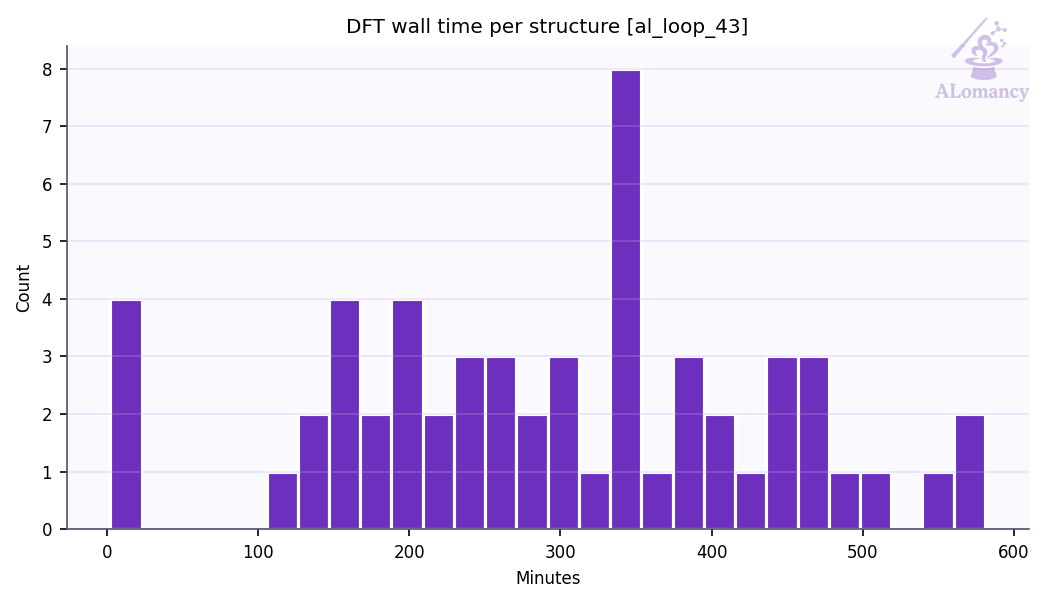
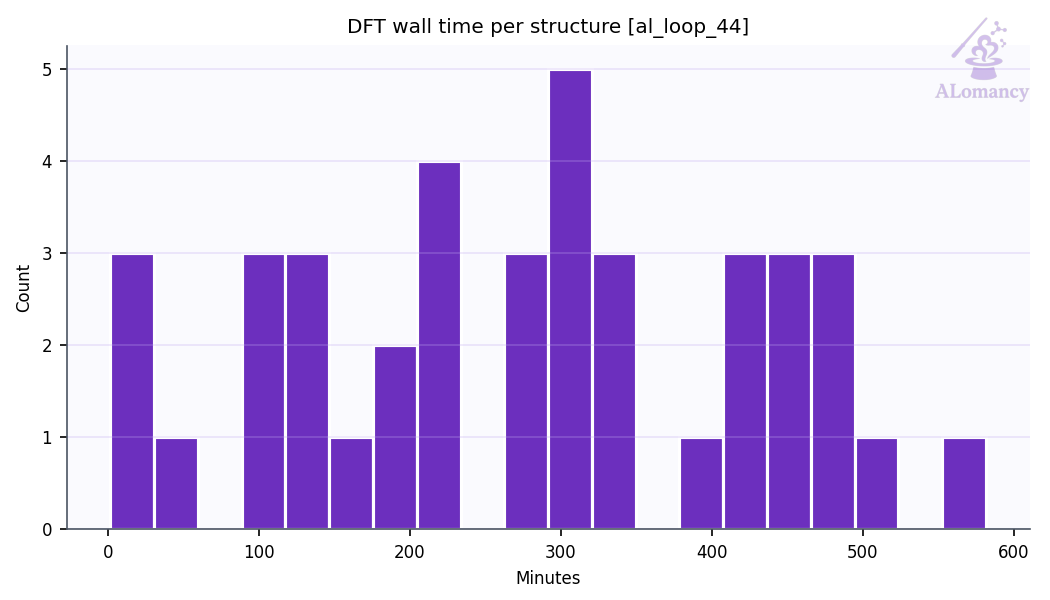
update yun_an

diff --git a/alomancy/yun_an/report/report.md b/alomancy/yun_an/report/report.md
@@ -1,31 +1,30 @@
-# ALomancy report: al_loop_43
+# ALomancy report: al_loop_44
 
-Workflow `committee_uncertainty` · trainer `mace` · generator `md` · evaluator `qe` · generated 2026-10-28T05:12:34
+Workflow `committee_uncertainty` · trainer `mace` · generator `md` · evaluator `qe` · generated 2026-10-30T05:42:37
 
-**Status:** ✖ 2 errors · ⚠ 4 warnings · 💡 1 info · 39 warning(s) logged
+**Status:** ✖ 2 errors · ⚠ 4 warnings · 33 warning(s) logged
 
 ## Headline
 
-| | loop 42 | loop 43 | change |
+| | loop 43 | loop 44 | change |
 |---|---:|---:|---:|
-| Best model test force MAE (eV/Å) | 0.333 | 0.473 | +42% |
-| Best model test energy MAE (meV/atom) | 147 | 189 | +28% |
-| Training structures | 1.93e+03 | 1.97e+03 | +2% |
-| Test structures | 90 | 96 | +7% |
-| New structures this loop | 34 | 57 | +68% |
-| Warnings / errors logged | 31 | 39 | +26% |
+| Best model test force MAE (eV/Å) | 0.473 | 0.346 | -27% |
+| Best model test energy MAE (meV/atom) | 189 | 144 | -24% |
+| Training structures | 1.97e+03 | 2e+03 | +1% |
+| Test structures | 96 | 100 | +4% |
+| New structures this loop | 57 | 40 | -30% |
+| Warnings / errors logged | 39 | 33 | -15% |
 
-Best model: fit_2 of 5 (chosen on the `valid` split).
+Best model: fit_3 of 5 (chosen on the `valid` split).
 
 ## Issues & suggestions
 
-- ✖ **remote_jobs_failed**: 30/112 remote jobs (27%) failed (15) or died (15). Check the job logs (results/alomancy.log has each failure's traceback); jobs killed by the scheduler usually need a longer max_time for that phase, or a partition with more memory.
-- ✖ **dft_partial_failure**: 18/75 structures sent to DFT (24%) came back without a result. Check the DFT output in results/<loop>/high_accuracy_evaluation; raise high_accuracy_evaluation.max_time / max_go_time if jobs timed out.
-- ⚠ **go_not_converged**: 13/57 geometry optimisations (23%) stopped at the step budget (200 steps) before reaching the force ceiling. Raise high_accuracy_evaluation.max_num_of_relax_steps, or raise high_accuracy_evaluation.force_ceiling (now 0.05 eV/Å) so they stop earlier. Non-converged structures are still kept as training data.
-- ⚠ **short_bond_excluded**: 142/217 structures (65%) were dropped for a bond shorter than 0.5 Å. The model is driving MD into collisions: lower md_kwargs.temperature or md_kwargs.timestep_fs, or add more short-range initialization data (dimers/trimers).
-- ⚠ **fewer_candidates**: Only 75 candidates were available for 100 requested structures. Generate more: raise md_kwargs.steps or structure_selection_kwargs.num_of_md_starts.
-- ⚠ **few_candidates_generated**: Structure generation produced only 75 usable candidates, less than twice the 100 structures added per loop, so the selector had little to choose from. Raise structure_generation.num_of_structures_to_generate (and md_kwargs.steps or structure_selection_kwargs.num_of_md_starts if MD runs end early).
-- 💡 **overfitting**: The best model's test force MAE (0.473 eV/Å) is 2.7x its training MAE (0.178 eV/Å). The test set covers configurations training doesn't: keep adding data, or raise general.dataset_kwargs.valid_fraction to select models on held-out data.
+- ✖ **remote_jobs_failed**: 29/92 remote jobs (32%) failed (8) or died (21). Check the job logs (results/alomancy.log has each failure's traceback); jobs killed by the scheduler usually need a longer max_time for that phase, or a partition with more memory.
+- ✖ **dft_partial_failure**: 15/55 structures sent to DFT (27%) came back without a result. Check the DFT output in results/<loop>/high_accuracy_evaluation; raise high_accuracy_evaluation.max_time / max_go_time if jobs timed out.
+- ⚠ **go_not_converged**: 11/40 geometry optimisations (28%) stopped at the step budget (200 steps) before reaching the force ceiling. Raise high_accuracy_evaluation.max_num_of_relax_steps, or raise high_accuracy_evaluation.force_ceiling (now 0.05 eV/Å) so they stop earlier. Non-converged structures are still kept as training data.
+- ⚠ **short_bond_excluded**: 225/280 structures (80%) were dropped for a bond shorter than 0.5 Å. The model is driving MD into collisions: lower md_kwargs.temperature or md_kwargs.timestep_fs, or add more short-range initialization data (dimers/trimers).
+- ⚠ **fewer_candidates**: Only 55 candidates were available for 100 requested structures. Generate more: raise md_kwargs.steps or structure_selection_kwargs.num_of_md_starts.
+- ⚠ **few_candidates_generated**: Structure generation produced only 55 usable candidates, less than twice the 100 structures added per loop, so the selector had little to choose from. Raise structure_generation.num_of_structures_to_generate (and md_kwargs.steps or structure_selection_kwargs.num_of_md_starts if MD runs end early).
 
 <details><summary>Suggestions file notes</summary>
 
@@ -45,6 +44,7 @@ Best model: fit_2 of 5 (chosen on the `valid` split).
 | 41 | 0.469 | 1896 | 27 | 27/43 | 67% | 2 | 30 |
 | 42 | 0.333 | 1926 | 34 | 34/45 | 76% | 0 | 31 |
 | 43 | 0.473 | 1971 | 57 | 57/75 | 77% | 3 | 39 |
+| 44 | 0.346 | 1997 | 40 | 40/55 | 72% | 5 | 33 |
 
 ![Best-model MAE per loop](plots/training_al_loop_mae_plot.png)
 
@@ -54,7 +54,7 @@ Best model: fit_2 of 5 (chosen on the `valid` split).
 
 ![Best model parity](plots/best_model_parity.png)
 
-Median relative error: train energy 4.0%, force 18.5%; test energy 2.3%, force 238.8%.
+Median relative error: train energy 2.3%, force 20.5%; test energy 1.8%, force 242.6%.
 Energies with |formation energy| < 0.05 eV/atom and atoms with |F| < 0.1 eV/Å are left out; force error is |ΔF|/|F| per atom.
 
 ![Best model percentage error](plots/best_model_percent_error.png)
@@ -64,15 +64,15 @@ Energies with |formation energy| < 0.05 eV/atom and atoms with |F| < 0.1 eV/Å a
 | config_type | Train | Test | Excluded: redundant | Excluded: quality filter | total |
 |---|---:|---:|---:|---:|---:|
 | IsolatedAtom | 5 | 0 | 0 | 0 | 5 |
-| high_sd | 569 | 80 | 47 | 346 | 1042 |
+| high_sd | 596 | 84 | 56 | 346 | 1082 |
 | init_MP | 69 | 4 | 0 | 0 | 73 |
-| init_amorphous | 68 | 12 | 7 | 0 | 87 |
+| init_amorphous | 67 | 12 | 8 | 0 | 87 |
 | init_dimer | 299 | 0 | 0 | 0 | 299 |
 | init_stretch_compress | 390 | 0 | 0 | 398 | 788 |
 | init_trimer | 571 | 0 | 0 | 0 | 571 |
-| **all** | **1971** | **96** | **54** | **744** | **2865** |
+| **all** | **1997** | **100** | **64** | **744** | **2905** |
 
-- Redundancy removal: 54 structure(s) flagged in total, 3 of this loop's 57 new.
+- Redundancy removal: 64 structure(s) flagged in total, 5 of this loop's 40 new.
 - Quality filters: high_force: 742, formation_energy: 174.
 
 ![Training set composition](plots/training_set_composition.png)
@@ -81,28 +81,28 @@ Energies with |formation energy| < 0.05 eV/atom and atoms with |F| < 0.1 eV/Å a
 
 Redundancy removal flags near-duplicate training structures, so the model isn't trained on many copies of the same geometry. Each structure is described by `char_vec_128`: all of its interatomic distances, sorted and resampled to 128 values (`global_descriptor/atomic_distance_descriptor.make_char_vec`). Two structures count as duplicates when the Euclidean distance between their descriptors is below a tolerance: in database order, each structure still in the training set is kept unless it is within the tolerance of one already kept. The plot sweeps that tolerance and counts how many structures are kept at each value. **We are looking for plateaus** (shaded): ranges where the count doesn't change, so the result doesn't depend on the exact tolerance. The orange line (right axis) is the number of structures removed between consecutive tolerance steps, the gradient of the count: zero on a plateau. The start of the lowest plateau at least `general.redundancy_kwargs.min_plateau_width` of the swept range wide is used (dashed line). Nothing is flagged when no plateau qualifies, or when it would flag more than `max_flagged_fraction` of the structures; `general.redundancy_kwargs.tolerance` sets the tolerance directly.
 
-- This loop: 712 structures probed, tolerance 0.0398, 6 flagged as duplicates (9 plateau(s) found).
+- This loop: 742 structures probed, tolerance 0.0398, 10 flagged as duplicates (8 plateau(s) found).
 
 ![Redundancy tolerance probe](plots/redundancy_tolerance_probe.png)
 
 ## DFT
 
-- Structures: 57 returned of 75 submitted (57 relaxed, 0 single point).
-- Geometry optimisation: 44/57 reached the force ceiling (0.05 eV/Å); steps mean 143.9, median 143, max 200 of 200 allowed.
-- Average DFT time per relaxation: 294.6 min (median 300.0, max 580.8; 57 structures).
-- Largest per-atom force after DFT: median 0.05, max 0.49 eV/Å.
-- DFT phase wall-clock: 54.6 h (mean queue time 516 min).
+- Structures: 40 returned of 55 submitted (40 relaxed, 0 single point).
+- Geometry optimisation: 29/40 reached the force ceiling (0.05 eV/Å); steps mean 136.9, median 142, max 200 of 200 allowed.
+- Average DFT time per relaxation: 277.1 min (median 287.4, max 581.5; 40 structures).
+- Largest per-atom force after DFT: median 0.05, max 0.74 eV/Å.
+- DFT phase wall-clock: 36.1 h (mean queue time 338 min).
 
 ## MLIP training: mace
 
-- Best fit (fit_2) trained for 199 epochs, stage two from epoch 160; weights kept from epoch 162.
+- Best fit (fit_3) trained for 199 epochs, stage two from epoch 160; weights kept from epoch 191.
 
 ![Best model training curve](plots/best_model_training_curve.png)
 
 ## Structure generation: MD
 
-- Runs: 27 (25 completed, 2 seed(s) replaced)
-- Candidate frames: 217 (per completed run: median 5, min 2)
+- Runs: 27 (25 completed, 3 seed(s) replaced)
+- Candidate frames: 280 (per completed run: median 9, min 2)
 - Ensemble npt, T = 300 K, timestep 0.3 fs
 
 ![MD frames per run](plots/md_frames_per_run.png)
@@ -117,7 +117,7 @@ Redundancy removal flags near-duplicate training structures, so the model isn't 
 
 ## Selection: committee uncertainty
 
-- 75 candidates scored; 75 selected (max force std dev ≥ 0 eV/Å).
+- 55 candidates scored; 55 selected (max force std dev ≥ 0 eV/Å).
 
 ![Committee force std dev](plots/committee_force_std_dev.png)
 
@@ -128,9 +128,8 @@ Redundancy removal flags near-duplicate training structures, so the model isn't 
 | `dft_summary` | DFT batch summary | 1 |
 | `few_candidates_generated` | fewer than 2x per-loop candidates generated | 1 |
 | `fewer_candidates` | fewer candidates than requested | 1 |
-| `job_died` | remote job died (killed / lost) | 15 |
-| `job_failed` | remote job failed | 15 |
-| `job_resumed` | transient remote error, polling resumed | 5 |
+| `job_died` | remote job died (killed / lost) | 21 |
+| `job_failed` | remote job failed | 8 |
 | `jobs_started` | remote jobs started | 5 |
 | `md_no_steps` | MD runs replaced (no MD step) | 1 |
 | `md_summary` | MD summary | 1 |
